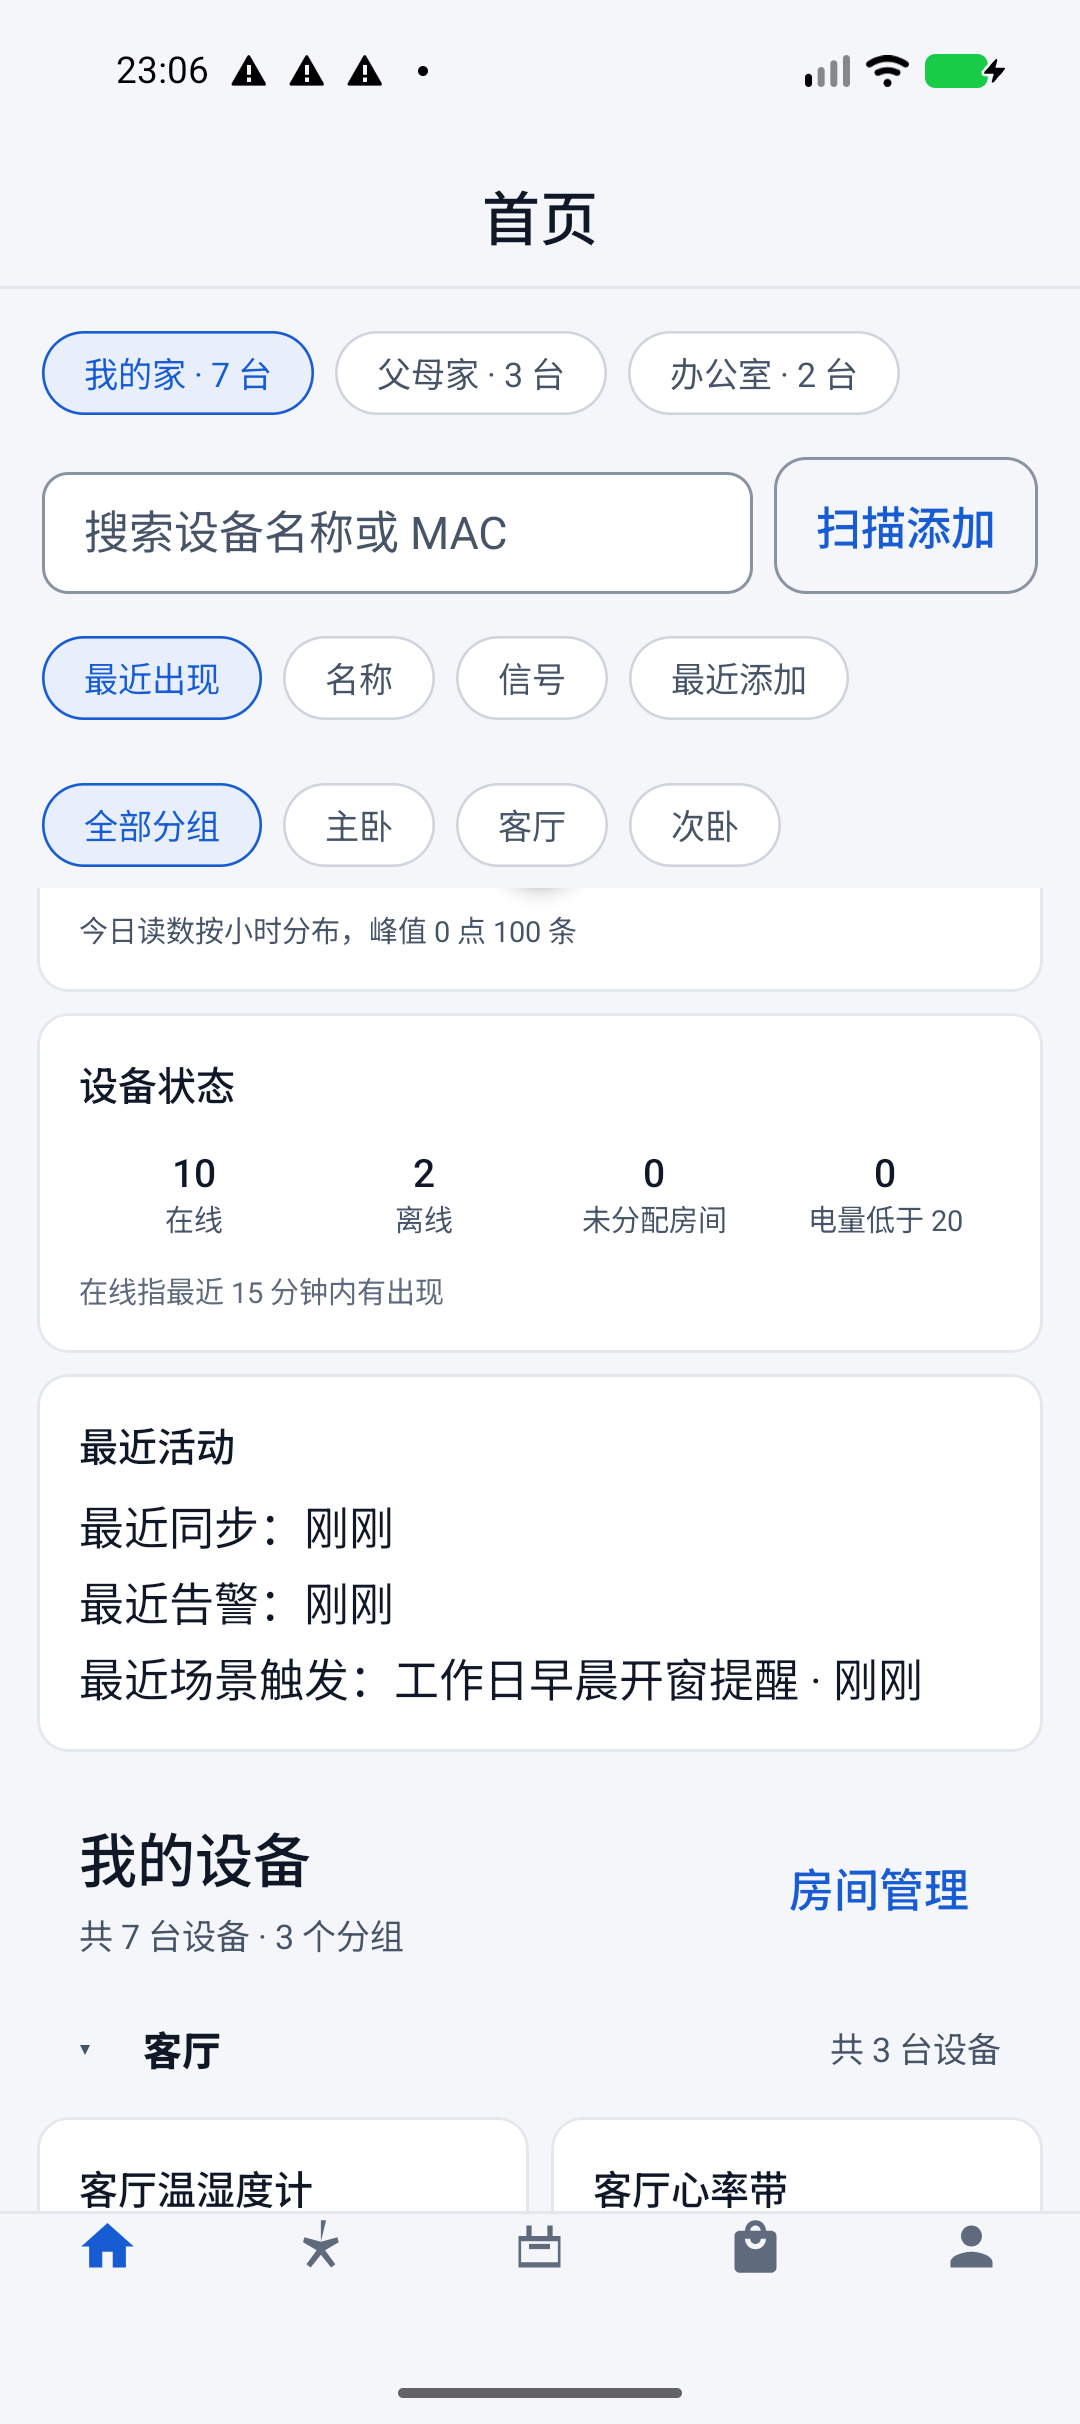
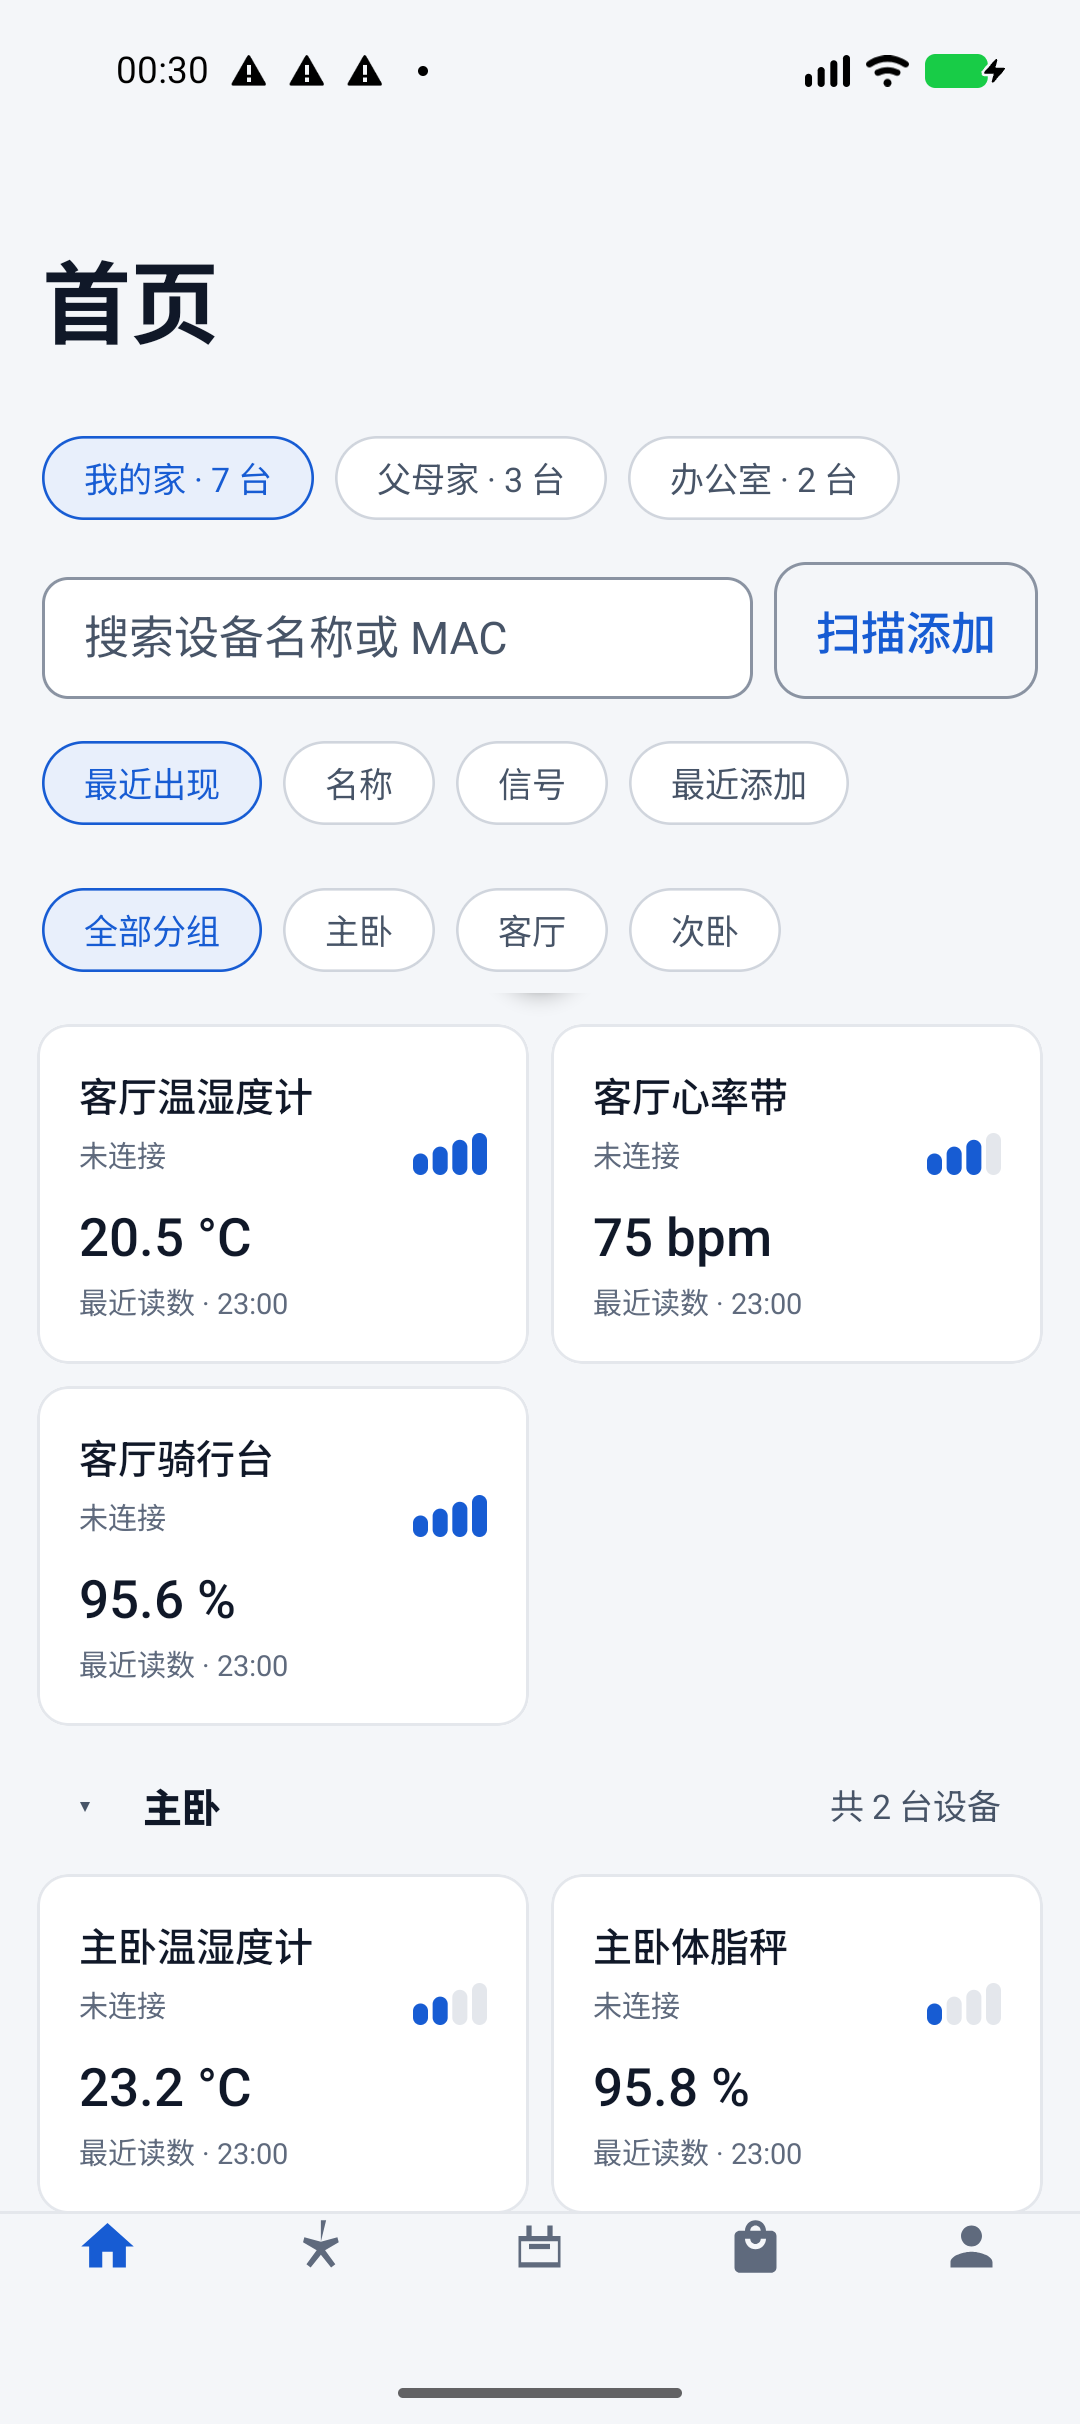
chore(screenshots): 停点落在整卡顶部并加 uiautomator 自动断言，发布 v0.28.0
- 首页停在「客厅温湿度计」卡顶部、家庭区停在「家庭」卡顶部，不再残留上一张卡的尾巴
- 新增 scripts/check-screenshot-top.py：首个可见 text 节点须匹配 --expect-top，
  所属 CardView top 不高于视口 top（容差 2dp）
- 重截 home.png / profile_household.png，更新 README 与验收文档
- versionCode 36 / versionName 0.28.0

diff --git a/scripts/check-screenshot-top.py b/scripts/check-screenshot-top.py
@@ -1,0 +1,184 @@
+#!/usr/bin/env python3
+"""校验截图停点：视口顶部不能残留上一张卡片的半截内容。
+
+用法：
+    adb shell uiautomator dump /sdcard/ui.xml
+    adb exec-out cat /sdcard/ui.xml > /tmp/ui.xml
+    python3 scripts/check-screenshot-top.py /tmp/ui.xml --expect-top 客厅
+
+断言规则（与 docs/acceptance.md「截图停点」一致）：
+1. 视口顶部第一个可见文字必须是 `--expect-top` 指定的完整卡片标题或区块标题，
+   用来识别「上一张卡被滚掉上半截、只剩一行尾巴」；
+2. 若该文字属于某张 CardView，该卡片顶部不得高于视口顶部（容差 tolerance-dp，
+   默认 2dp）；
+3. 底部不参与通过/失败判定：滚动列表底部露出下一张卡的半截是正常滚动暗示，
+   这里只提示（WARN）。确需严格禁止底部文字跨过视口时用 --strict-bottom。
+
+注意：uiautomator 会把被裁掉的节点 bounds 截到窗口边缘，单看 CardView 的 top
+无法区分「卡片刚好贴顶」和「卡片顶部被滚出视口」，因此 --expect-top 的首个文字
+校验是识别尾巴的关键。
+"""
+import argparse
+import re
+import sys
+import xml.etree.ElementTree as ET
+
+BOUNDS_RE = re.compile(r"\[(\d+),(\d+)]\[(\d+),(\d+)]")
+
+
+def bounds(node):
+    match = BOUNDS_RE.search(node.attrib.get("bounds", ""))
+    return tuple(map(int, match.groups())) if match else None
+
+
+def text_of(node, limit=26):
+    return (node.attrib.get("text") or "").replace("\n", " ")[:limit]
+
+
+def desc_of(node, limit=26):
+    return (node.attrib.get("content-desc") or "").replace("\n", " ")[:limit]
+
+
+def parse_tree(path):
+    root = ET.parse(path).getroot()
+    parent = {child: node for node in root.iter() for child in node}
+    return root, parent
+
+
+def nearest_card(node, parent):
+    cur = parent.get(node)
+    while cur is not None:
+        if "CardView" in cur.attrib.get("class", ""):
+            return cur
+        cur = parent.get(cur)
+    return None
+
+
+def is_within(node, ancestor):
+    a, b = bounds(node), bounds(ancestor)
+    return bool(a and b) and b[0] <= a[0] and b[1] <= a[1] and b[2] >= a[2] and b[3] >= a[3]
+
+
+def lowest_common_ancestor(nodes, parent):
+    ancestors = []
+    cur = nodes[0]
+    while cur is not None:
+        ancestors.append(cur)
+        cur = parent.get(cur)
+    for candidate in ancestors:
+        if all(is_within(node, candidate) for node in nodes):
+            return candidate
+    return None
+
+
+def find_viewport(cards, parent):
+    # 卡片的最深公共祖先通常就是列表/滚动容器本身（首页为 RecyclerView 的
+    # ScrollView 子节点，我的页为 ScrollView 内层 LinearLayout）。
+    viewport = lowest_common_ancestor(cards, parent)
+    if viewport is None:
+        return None
+    while "CardView" in viewport.attrib.get("class", "") and parent.get(viewport) is not None:
+        viewport = parent.get(viewport)
+    return viewport
+
+
+def main():
+    parser = argparse.ArgumentParser()
+    parser.add_argument("dump")
+    parser.add_argument("--tolerance-dp", type=float, default=2.0)
+    parser.add_argument("--density", type=float, default=2.625)
+    parser.add_argument(
+        "--expect-top",
+        default=None,
+        help="视口顶部第一个可见文字（完整卡片标题或区块标题）",
+    )
+    parser.add_argument(
+        "--strict-bottom",
+        action="store_true",
+        help="底部有文字跨过视口时也判失败（默认只提示，因为滚动列表底部露半张卡是正常的）",
+    )
+    args = parser.parse_args()
+
+    root, parent = parse_tree(args.dump)
+    tolerance = round(args.tolerance_dp * args.density)
+
+    cards = [n for n in root.iter() if "CardView" in n.attrib.get("class", "") and bounds(n)]
+    if not cards:
+        print("SKIP: 视口内没有 CardView，无法做卡片对齐断言")
+        return 2
+
+    viewport = find_viewport(cards, parent)
+    if viewport is None or bounds(viewport) is None:
+        print("FAIL: 无法定位滚动视口")
+        return 1
+    _, vtop, _, vbottom = bounds(viewport)
+
+    # 只取真实文字（text），不取 contentDescription：后者常覆盖整张卡，
+    # 卡片自己的 content-desc 会排在标题前面，导致误判。
+    texts = [
+        n for n in root.iter()
+        if text_of(n) and bounds(n) and bounds(n)[1] >= vtop
+    ]
+    texts.sort(key=lambda n: bounds(n)[1])
+
+    problems = []
+    if not texts:
+        problems.append("视口内没有可见文字，无法确认停点")
+    else:
+        first = texts[0]
+        if args.expect_top and not text_of(first).startswith(args.expect_top):
+            problems.append(
+                f"顶部残留: 首个可见文字是「{text_of(first)}」"
+                f"（期望「{args.expect_top}」），说明上一张卡被滚掉上半截"
+            )
+        card = nearest_card(first, parent)
+        if card is not None:
+            card_top = bounds(card)[1]
+            if card_top < vtop - tolerance:
+                problems.append(
+                    f"顶部半截卡片: 首个文字「{text_of(first)}」所属卡片 top={card_top}，"
+                    f"视口 top={vtop}（差 {vtop - card_top}px）"
+                )
+            else:
+                print(
+                    f"OK 顶部: 首个可见文字「{text_of(first)}」"
+                    f"卡片 top={card_top}，视口 top={vtop}"
+                    f"（间隙 {card_top - vtop}px）"
+                )
+        else:
+            print(
+                f"OK 顶部: 首个可见文字「{text_of(first)}」不属于任何卡片，"
+                f"视为完整区块标题（视口 top={vtop}）"
+            )
+
+    if args.strict_bottom:
+        for node in root.iter():
+            b = bounds(node)
+            if not text_of(node) or not b:
+                continue
+            if vtop <= b[1] < vbottom <= b[3]:
+                problems.append(
+                    f"底部半截文字「{text_of(node)}」bounds={b}，视口 bottom={vbottom}"
+                )
+
+    if problems:
+        for problem in problems:
+            print("FAIL:", problem)
+        return 1
+
+    # 底部只提示：滚动列表底部露出下一张卡是正常滚动暗示，切在行间隙不算缺陷。
+    for node in root.iter():
+        b = bounds(node)
+        if not text_of(node) or not b:
+            continue
+        if vtop <= b[1] < vbottom <= b[3]:
+            print(
+                f"WARN 底部: 「{text_of(node)}」bounds={b} 跨过视口 bottom={vbottom}"
+                f"（列表可继续滚动，未计入失败）"
+            )
+    print("PASS")
+    return 0
+
+
+if __name__ == "__main__":
+    sys.exit(main())

diff --git a/docs/acceptance.md b/docs/acceptance.md
@@ -1311,7 +1311,7 @@ apksigner verify --print-certs app/build/outputs/apk/release/app-release.apk
 - 跨 DST 的真实时区切换（自动化已覆盖 02:30 → 03:30 与秋季重复小时，真机仅作补充）。
 - 场景 6 个 `SCENE_*` 码在真实后端联调环境的逐条触发（fixture 中只做了映射与文案验证）。
 
-## 14. 真 Postgres e2e 与界面截图（v0.27.0）
+## 14. 真 Postgres e2e 与界面截图（v0.28.0）
 
 ### 14.1 场景链路（真 Postgres）
 
@@ -1330,11 +1330,22 @@ apksigner verify --print-certs app/build/outputs/apk/release/app-release.apk
 - 环境：Pixel_10a 模拟器（Android 37，1080×2400）+ 本机 `PJGoIoT v0.22.0` 干净 worktree（API `10.0.2.2:8080`，真 Postgres），App 使用 `-PapiBaseUrl=http://10.0.2.2:8080/` 构建。
 - 造数：`python3 scripts/seed-screenshots.py http://127.0.0.1:8080/api/v1`，再用配对码在「我的 → 8 位配对码」接管账号，最后 `python3 scripts/seed-local-db.py` 注入本地读数与扫描日志；数据含 3 家庭 / 6 房间 / 12 设备（7/3/2 分布，5 种型号、2 台离线）/ 4 场景（1 个 `rejected`、1 个定时、1 个 `deviceMissing`）/ 3 条服务端反馈（1 条已关闭）/ 12 条本地扫描日志；服务端读数每 10 分钟一条、共 7 天。
 - 预期：16 张截图位于 `docs/screenshots/`，覆盖首页、设备详情（连接状态与设备信息同为「未连接」、24 小时 48 桶、折线 + min–max 带、横轴 `MM-dd`、导出说明与按钮完整）、智能（列表 + 详情）、产品（列表 + 详情）、市场、我的、我的 · 家庭区（`profile_household.png`，成员显示「成员 N · 角色」而非原始 ID）、我的 · 扫描日志（`profile_scan_logs.png`，12 条、MAC 为 `C8:47:8C:` 假地址）、房间、会话、反馈详情，以及 200% 字号的首页与场景页；每张图的关键文字/按钮都不被底部 Tab、手势条或悬浮按钮切断；`README.md` 以相对路径引用并写明来源。
+- 截图停点（v0.28.0）：每张滚动页的视口顶部第一个可见元素必须是完整卡片或完整区块标题，不允许上一张卡只剩一行尾巴。停点用 uiautomator 节点树自动断言，不靠肉眼：
+  `adb shell uiautomator dump /sdcard/ui.xml && adb exec-out cat /sdcard/ui.xml > /tmp/ui.xml && python3 scripts/check-screenshot-top.py /tmp/ui.xml --expect-top 客厅温湿度计`
+  脚本取视口内第一个带 `text` 的节点（跳过 `contentDescription`，卡片自身的 content-desc 会排在标题前造成误判），要求其文字以 `--expect-top` 开头、且其所属 `CardView` 的 top 不高于视口 top（容差 2dp × density）。首页断言「客厅温湿度计」卡片 top=1024 / 视口 top=993（间隙 31px），家庭区断言「家庭」卡 top=394 / 视口 top=394（间隙 0px），均 PASS。列表底部露出下一张卡的半截属于正常滚动暗示，脚本只输出 WARN 不判失败（`--strict-bottom` 才计入失败）。
+- 峰值小时口径（v0.28.0）：「今日读数按小时分布，峰值 X 点 Y 条」的 X 由 `List<HourCount>.peakHour()` 计算，并列时取最晚出现的小时（旧实现 `maxByOrNull` 并列取首个，导致均匀数据下永远是 0 点）。本地今日 0–22 点各 100 条、23 点 25 条，页面显示「峰值 22 点 100 条」；`HourlyPeakTest` 覆盖并列 / 单峰 / 无数据。
 - 失败判定：出现占位图/拼图/旧图、页面空白或崩溃、可滚动页面最后一项被系统手势条遮挡、设备详情指标名显示「其他」而原始 key 不是未知值、200% 字号下文字重叠或按钮不可点。
 
 ### 14.4 截图过程中修复的界面问题（需单独提交）
 
-本版（v0.27.0）：
+本版（v0.28.0）：
+
+- 首页截图顶部残留「今日读数按小时分布，峰值 0 点 100 条」一行（今日概览卡被滚掉上半截）：停点改为「客厅温湿度计」卡顶部。
+- 家庭区截图「我的」标题下残留「断开自动停止。」（后台采集卡的最后一行）：停点改为「家庭」卡顶部。
+- 停点新增 `scripts/check-screenshot-top.py` 自动断言（`--expect-top` + 卡片 top 对齐），不靠肉眼。
+- 峰值小时并列时取 0 点：新增 `List<HourCount>.peakHour()` 并列取最晚小时，补 `HourlyPeakTest`（并列/单峰/无数据）。
+
+v0.27.0：
 
 - 设备详情底部「导出 CSV」按钮压住说明文字：导出行改为纵向布局，滚动容器底部 padding = 48dp + `systemBars.bottom`，滚到底时正文/按钮完整位于手势条上方；全仓无 `FloatingActionButton`。
 - 「连接状态」显示正在连接 + -55 dBm + 断开连接，而「设备信息」显示当前未连接：新增 `ConnectionUi` 单一状态源，三态文案与按钮同源派生，连接中隐藏 RSSI、按钮变「取消」，补 `ConnectionUiTest`。
